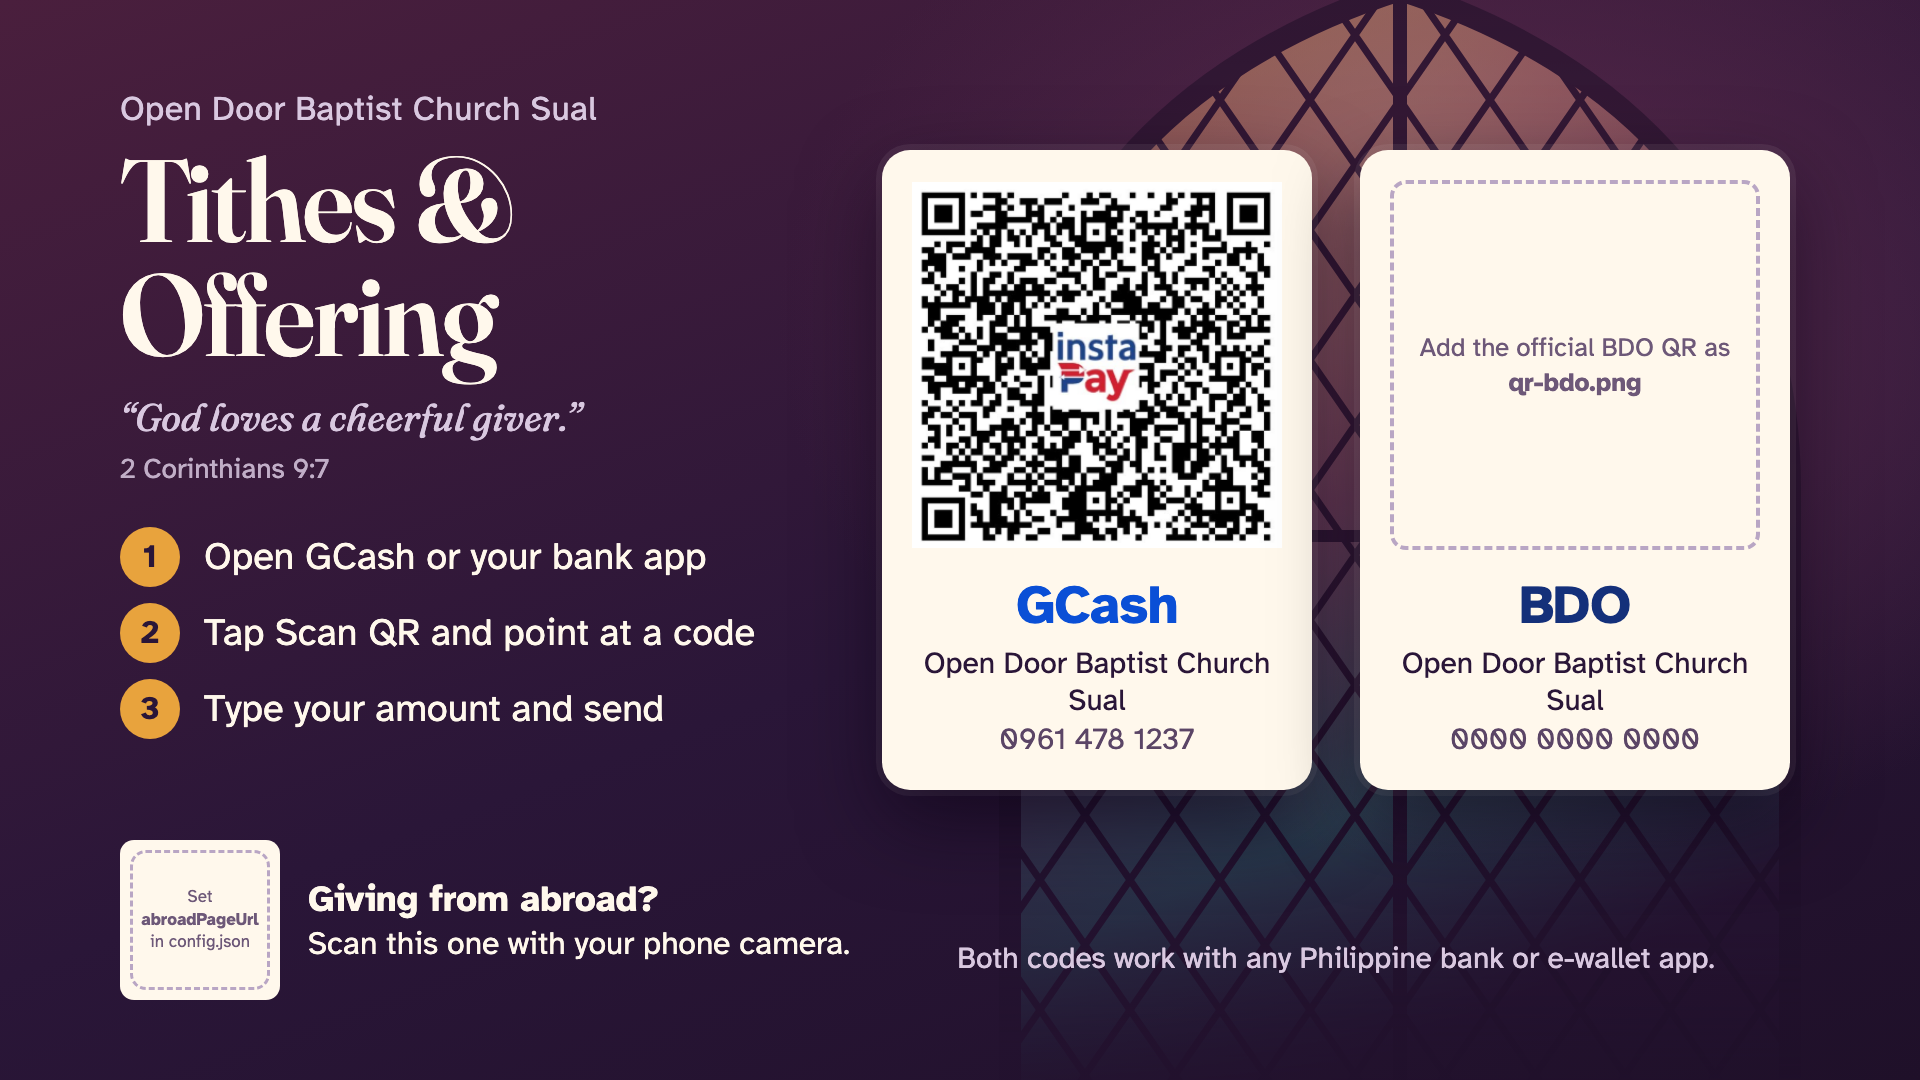
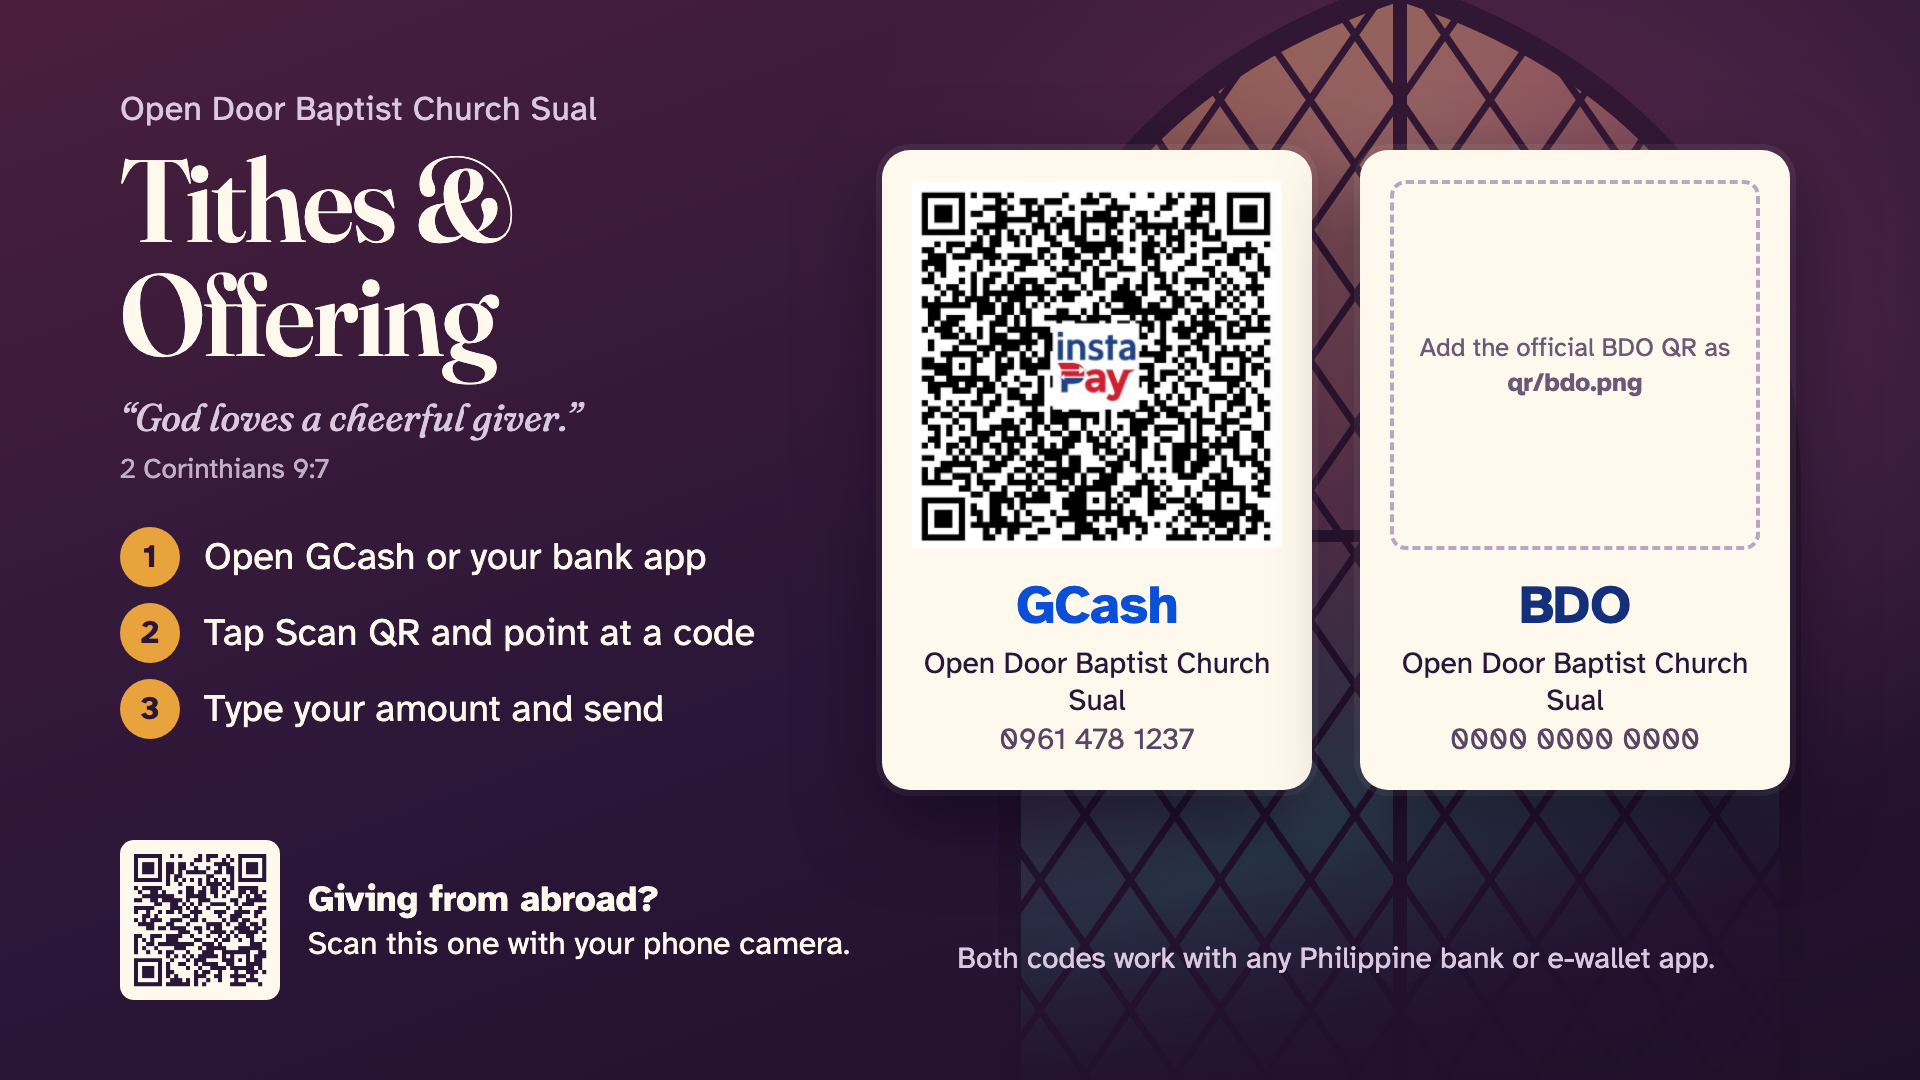
Point Give from abroad QR to GitHub Pages site

Changed region(s): [[0.0625, 0.7639, 0.1562, 0.9167], [0.7812, 0.3361, 0.8438, 0.3667]]

diff --git a/output/offering-slide.html b/output/offering-slide.html
@@ -137,7 +137,7 @@
     </ol>
 
     <div class="abroad">
-      <div class="code"><div class="qr-missing small"><span>Set</span><b>abroadPageUrl</b><span>in config.json</span></div></div>
[1 lines of base64/hex data omitted]
       <p><b>Giving from abroad?</b>Scan this one with your phone camera.</p>
     </div>
   </section>
@@ -150,7 +150,7 @@
       <div class="num">0961 478 1237</div>
     </div>
     <div class="card bdo">
-      <div class="qr"><div class="qr-missing"><span>Add the official BDO QR as</span><b>qr-bdo.png</b></div></div>
+      <div class="qr"><div class="qr-missing"><span>Add the official BDO QR as</span><b>qr/bdo.png</b></div></div>
       <h2>BDO</h2>
       <div class="name">Open Door Baptist Church Sual</div>
       <div class="num">0000 0000 0000</div>
